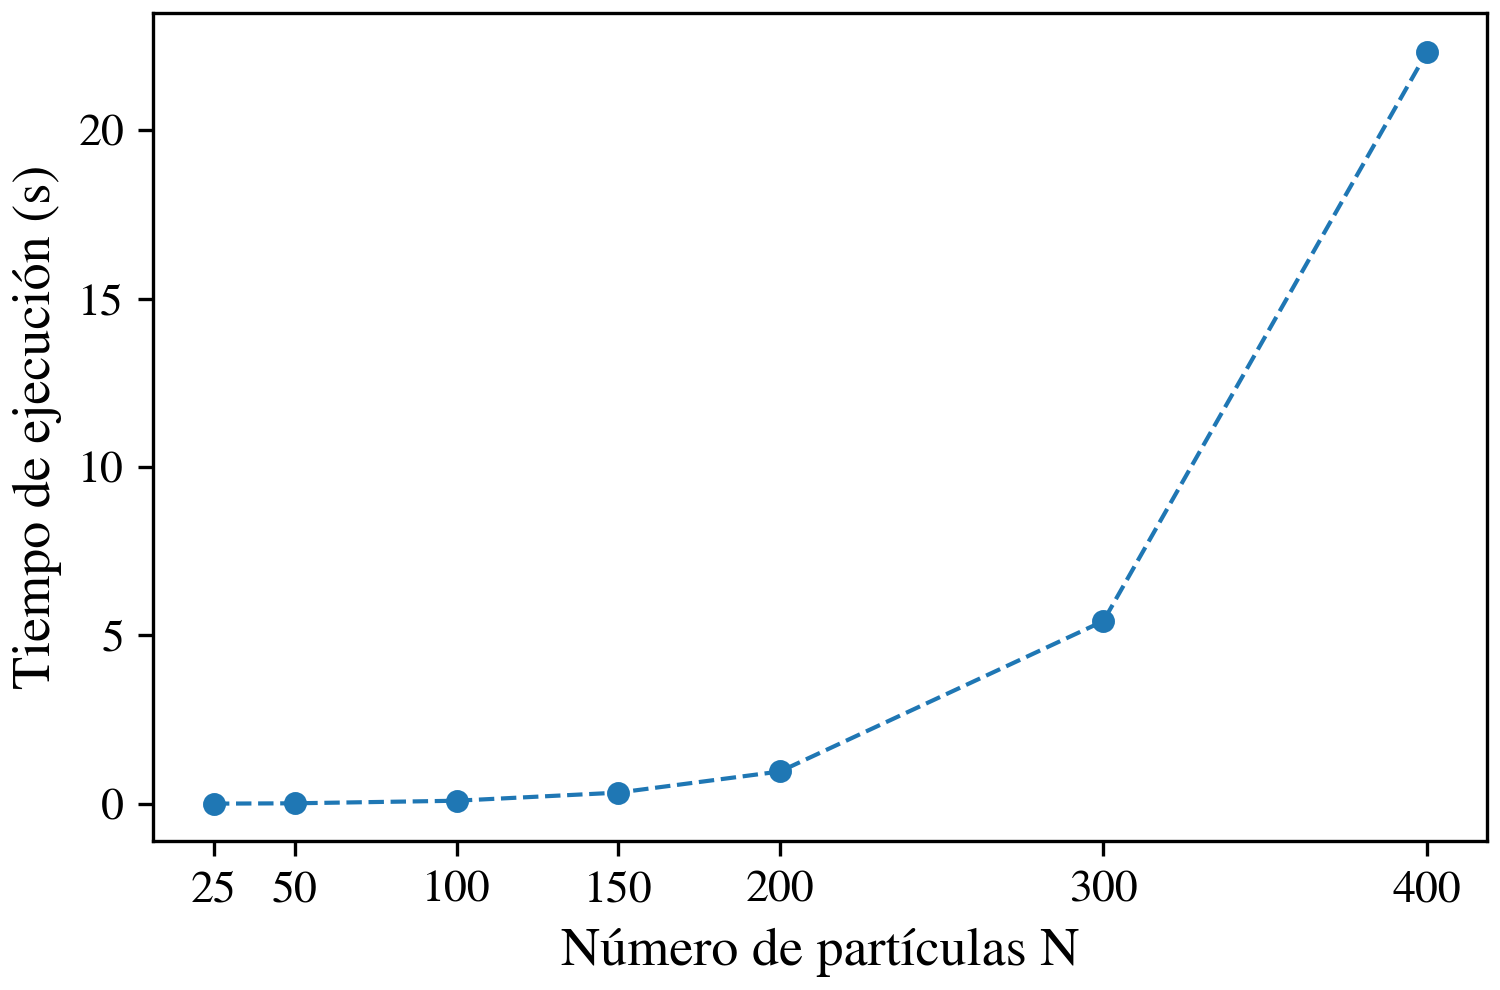
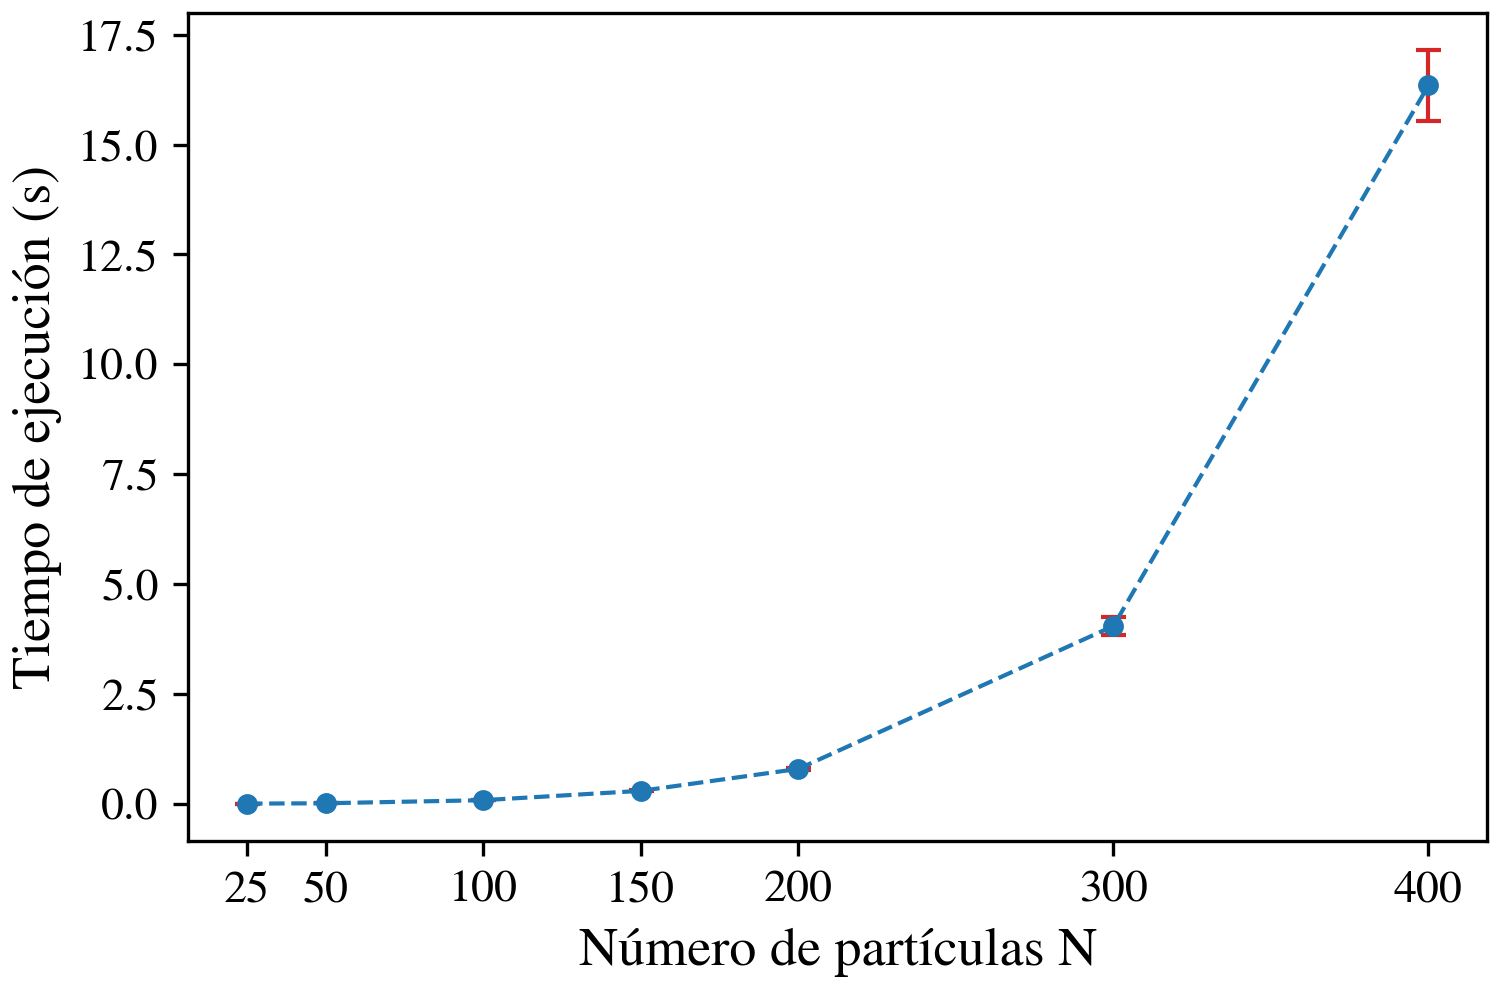
chore: add error bars

diff --git a/tp3-event-driven-md/analysis/plot_time_vs_n.py b/tp3-event-driven-md/analysis/plot_time_vs_n.py
@@ -86,14 +86,14 @@ def main() -> None:
     events = [r["events_mean"] for r in rows]
 
     fig, ax = plt.subplots()
-    ax.errorbar(ns, means, yerr=stds, color="tab:blue", marker="o", linestyle="--",
-                linewidth=1.0)
+    ax.errorbar(ns, means, yerr=stds, color="tab:blue", ecolor="tab:red", marker="o",
+                markersize=4, linestyle="--", linewidth=1.0, capsize=3)
     loglog_axes(ax, ns, means, LABEL_N, "Tiempo de ejecución (s)")
     save_figure(fig, "time_vs_n.png")
 
     fig, ax = plt.subplots()
-    ax.errorbar(ns, means, yerr=stds, color="tab:blue", marker="o", linestyle="--",
-                linewidth=1.0)
+    ax.errorbar(ns, means, yerr=stds, color="tab:blue", ecolor="tab:red", marker="o",
+                markersize=4, linestyle="--", linewidth=1.0, capsize=3)
     ax.set_xticks(ns)
     ax.set_xlabel(LABEL_N)
     ax.set_ylabel("Tiempo de ejecución (s)")
